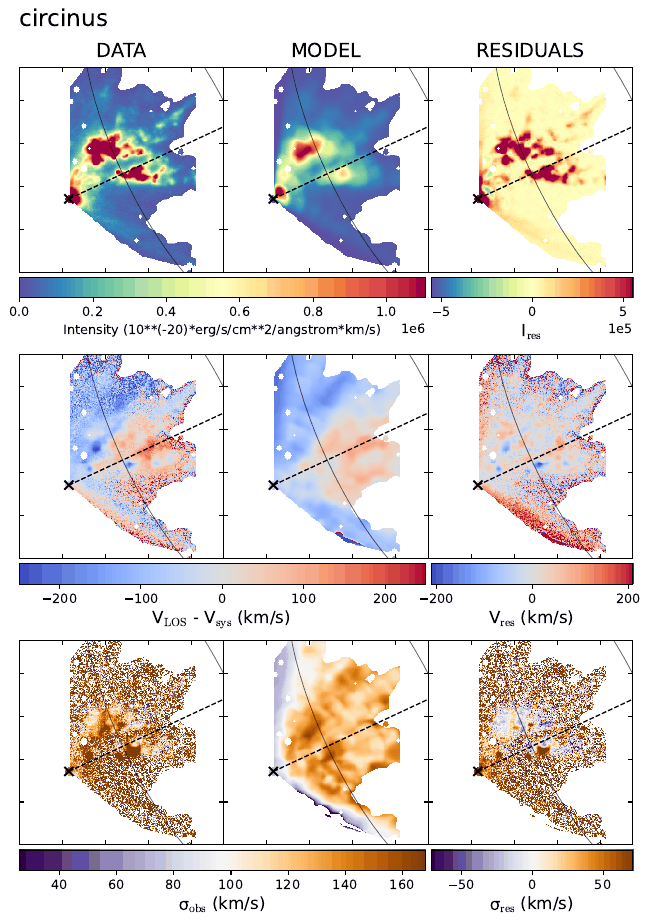
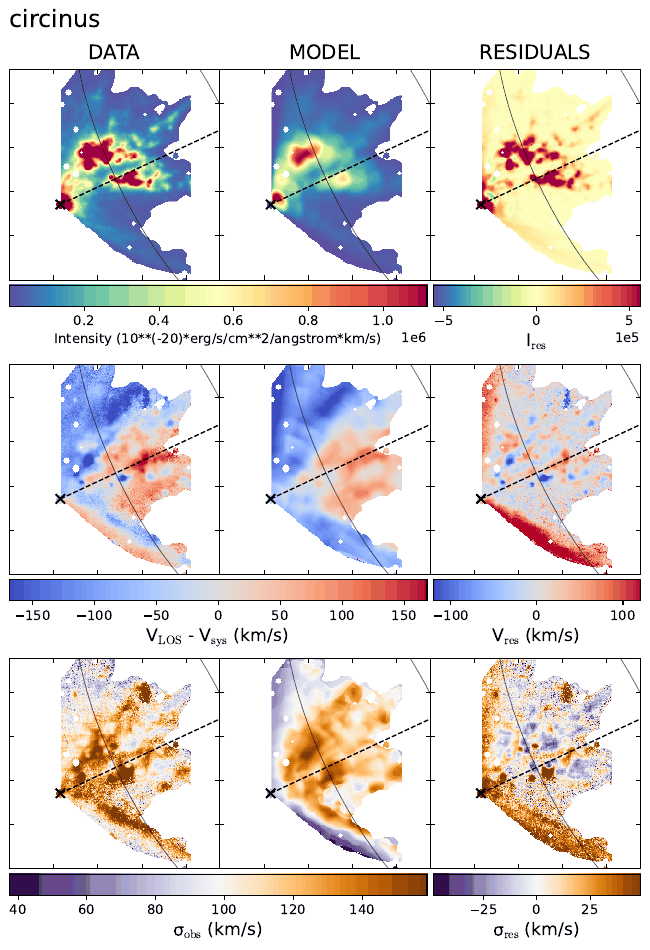
WINDFIT maps: the detections of a mask of a region, the model in the same voxels
With MASK FILE(...) or NONE (a region: every channel of a window, with its empty voxels) the moment maps of the
data use only the voxels of the mask detected as MASK SMOOTH (the cube smoothed to FACTOR times the beam, above
BLANKCUT times its noise), and the maps of the model the same voxels (they used all its voxels). The empty channels
made the velocity and dispersion maps of the data noisy (Circinus: dispersion 155 km/s, 16-84% 104-240; now 111,
91-139, 99% of the flux). The likelihood still uses the whole mask; SEARCH (the default) and SMOOTH masks are
unchanged. Cube.smoothDetections() is the SMOOTH branch of BlankMask, without setting the mask (the SMOOTH masks
of four cubes are identical to the previous code); kinematic_maps(model_mask=True) for the model. Test
test_bayesian_wind_map_voxels; Circinus maps redone.

diff --git a/tests/test_wind.py b/tests/test_wind.py
@@ -703,6 +703,44 @@ def test_bayesian_wind_blanks(tmp_path):
     assert abs(f.noiserms / full.noiserms - 1) < 0.05
 
 
+def test_bayesian_wind_map_voxels(tmp_path):
+    """The moment maps of WINDFIT (maps/): with MASK FILE (a region, every channel) the maps of the data use the
+    voxels of the mask detected as MASK SMOOTH (the cube smoothed, above BLANKCUT times its noise), not all the voxels
+    of the mask (the empty channels made the velocity and dispersion maps noisy), and the maps of the model use the
+    same voxels; MASK SMOOTH (made of detections) keeps its mask."""
+    from wind_mocks import mock_wind
+    from bbarolo import BayesianWind
+    from bbarolo.cube import Cube
+    from bbarolo.moments import getAllMoments
+    from bbarolo.bayesian.wind_outputs import _map_mask
+    from astropy.io import fits
+    hdu, tr = mock_wind(kind="clumps", seed=2, snr=15, shape=(24, 24, 20), pix=12., chan=25., beam=36.,
+                        truth=dict(xpos=11.5, ypos=11.5, conelen=110., radii=[55., 110.], vwind=200.), nclumps=40,
+                        clump=20.)
+    mask = np.ones(hdu.data.shape, np.uint8)
+    mask[:, :, :7] = 0                                                # (a region: every channel of two thirds)
+    mfile = str(tmp_path / "mask.fits")
+    fits.PrimaryHDU(mask, hdu.header).writeto(mfile)
+    f = BayesianWind(hdu, xpos=11.5, ypos=11.5, vsys=0, inc=55, pa=30, openang=55, conelen=110, vwind=180, vdisp=20,
+                     nlayers=2, mask=f"FILE({mfile})", outfolder=str(tmp_path) + "/")
+    f.optimize(freepar=["openang"], like_kwargs=dict(emission="voxel", sigma=1., noisecorr=10.), verbose=False)
+    f.write(plots=-1, verbose=False)
+    c = f._cube_obj
+    det = np.asarray(c.smoothDetections()[0], bool)
+    mm = _map_mask(c, np.asarray(c.Mask(), bool))
+    assert np.array_equal(mm, (mask > 0) & det) and 0 < mm.sum() < 0.5 * mask.sum()
+    pre = str(tmp_path) + "/maps/" + c.pars().outPrefix
+    mod = Cube(array=np.asarray(f.model, np.float32), head=c.Head(), par=c.pars())
+    for cube, files in ((c, ["_0mom", "_1mom", "_2mom"]), (mod, ["_mod_0mom_wind", "_mod_1mom_wind", "_mod_2mom_wind"])):
+        ref = getAllMoments(cube, True, mm, "MOMENT")
+        for i, fn in enumerate(files):
+            got = fits.getdata(pre + fn + ".fits")
+            assert np.allclose(got, ref[i].array, equal_nan=True, rtol=1e-5, atol=1e-6 * np.nanmax(np.abs(got))), fn
+    # a mask made of detections is kept as it is
+    c.pars().MaskType = "SMOOTH"
+    assert _map_mask(c, mask > 0) is not None and np.array_equal(_map_mask(c, mask > 0), mask > 0)
+
+
 def test_bayesian_wind_likemask(tmp_path):
     """LIKEOPTS likemask=dilated (as 3DFIT with METHOD GLOBAL or BAYESIAN): the likelihood uses only the voxels of the
     mask (MASK), dilated by dilation (beams, channels). With MASK FILE(...) and dilation=0,0 the voxels and the

diff --git a/bbarolo/bayesian/wind_outputs.py b/bbarolo/bayesian/wind_outputs.py
@@ -10,7 +10,8 @@ the cube (<prefix>):
                                  volume and emissivity at the best fit
   <prefix>_mod_wind.fits         the best model cube (as <prefix>_mod_<norm>.fits of 3DFIT), and <prefix>_mask.fits
   maps/<prefix>_{0,1,2}mom.fits, maps/<prefix>_mod_{0,1,2}mom_wind.fits   the total intensity, velocity and
-                                 dispersion maps of the data (in the mask) and of the model, as 3DFIT
+                                 dispersion maps of the data and of the model, in the same voxels: the mask (and,
+                                 with MASK FILE or NONE, the detections of MASK SMOOTH in it; see _map_mask)
   pvs/<prefix>_pv_{a,b}.fits, pvs/<prefix>_mod_pv_{a,b}_wind.fits, pvs/<prefix>_mask_pv_{a,b}.fits   position-velocity
                                  slices of the data, the model and the mask through the apex, across the axis of the
                                  cones (a: along PA) and along it (b: PA + 90), as 3DFIT
@@ -131,7 +132,7 @@ def write_outputs(f, outfolder=None, plots=None, verbose=True):
     files.append(fn)
     os.makedirs(of + "maps", exist_ok=True)
     os.makedirs(of + "pvs", exist_ok=True)
-    for name, hdu in kinematic_maps(c, mod, mask, "_wind").items():
+    for name, hdu in kinematic_maps(c, mod, _map_mask(c, mask), "_wind", model_mask=True).items():
         fn = of + "maps/" + prefix + "_" + name + ".fits"
         write_hdu(hdu, fn)
         files.append(fn)
@@ -162,6 +163,24 @@ def _output_mask(c):
         with _outputs_mode(c.pars()):
             c.BlankMask()
     return np.asarray(c.Mask(), bool)
+
+
+def _map_mask(c, mask):
+    """The voxels of the moment maps of the data and of the model: the mask (MASK) and, when MASK is not made of
+    detections (FILE, NONE: e.g. a region of the wind, every channel of a window), the detections of MASK SMOOTH
+    (the cube smoothed to FACTOR times the beam, above BLANKCUT times its noise); the empty voxels of such a mask
+    made the velocity and dispersion maps of the data noisy. The mask itself if there are no detections in it."""
+    mt = c.pars().MaskType.upper()
+    if any(k in mt for k in ("SMOOTH", "SEARCH", "THRESHOLD", "NEGATIVE")):
+        return mask
+    v = c.pars().verbose
+    c.pars().verbose = False
+    try:
+        det = np.asarray(c.smoothDetections()[0], bool)
+    finally:
+        c.pars().verbose = v
+    both = mask & det
+    return both if both.any() else mask
 
 
 def _cube_file(f, c, of):

diff --git a/bbarolo/cube.py b/bbarolo/cube.py
@@ -586,6 +586,25 @@ class Cube:
             return factor, nb[0], nb[1], (bpa if nb[2] is None else nb[2])
         return factor, factor * bmaj, factor * bmin, bpa
 
+    def smoothDetections(self):
+        """The detections of MASK SMOOTH, without setting the mask: the voxels of the cube smoothed to FACTOR times
+        the beam (or NEWBEAM) above BLANKCUT times its noise. Returns (mask, factor, new bmaj, bmin (arcsec), bpa)."""
+        from .smooth import Smooth3D
+        p = self.par
+        h = self.head
+        bmaj = h.Bmaj() * arcsconv(h.Cunit(0))
+        bmin = h.Bmin() * arcsconv(h.Cunit(0))
+        bpa = h.Bpa()
+        factor, nbmaj, nbmin, nbpa = self._maskBeam(bmaj, bmin, bpa)
+        arr = Smooth3D().smooth(self, (bmaj, bmin, bpa), (nbmaj, nbmin, nbpa))
+        st = Stats(p.flagRobustStats)
+        good = ~((arr == 0) | np.isnan(arr))
+        st.calculate(arr, good)
+        st.setThresholdSNR(p.blankCut)
+        with np.errstate(invalid="ignore"):
+            mask = arr > st.getThreshold()
+        return mask, factor, nbmaj, nbmin, nbpa
+
     def BlankMask(self, channel_noise=None, onlyLargest=True):
         """Build the mask (self.mask) according to the MASK parameter."""
         from .smooth import Smooth3D, SpectralSmooth3D
@@ -636,18 +655,7 @@ class Cube:
                     mask[o.z, o.y, o.x] = True
                 self._maskSources = self.sources
             elif "SMOOTH" in MASK:
-                bmaj = h.Bmaj() * arcsconv(h.Cunit(0))
-                bmin = h.Bmin() * arcsconv(h.Cunit(0))
-                bpa = h.Bpa()
-                factor, nbmaj, nbmin, nbpa = self._maskBeam(bmaj, bmin, bpa)
-                sm = Smooth3D()
-                arr = sm.smooth(self, (bmaj, bmin, bpa), (nbmaj, nbmin, nbpa))
-                st = Stats(p.flagRobustStats)
-                good = ~((arr == 0) | np.isnan(arr))
-                st.calculate(arr, good)
-                st.setThresholdSNR(p.blankCut)
-                with np.errstate(invalid="ignore"):
-                    mask = arr > st.getThreshold()
+                mask, factor, nbmaj, nbmin, nbpa = self.smoothDetections()
             elif "THRESHOLD" in MASK:
                 mask = self.array > p.se.threshold
             elif "NEGATIVE" in MASK:

diff --git a/bbarolo/galfit_out.py b/bbarolo/galfit_out.py
@@ -23,10 +23,11 @@ from .bbutils import mkdirp, randomAdjective, polyfit_lsq
 FLT_MAX = float(np.finfo(np.float32).max)
 
 
-def kinematic_maps(c, mod, mask=None, suffix=""):
+def kinematic_maps(c, mod, mask=None, suffix="", model_mask=False):
     """The maps of the data (within the mask: mask, or that of the cube) and of the model mod, as HDUs:
     {'0mom', '1mom', '2mom', 'mod_0mom<suffix>', ...} (the files of the maps/ folder without the prefix).
-    Moments or Gaussian fits, as MAPTYPE (C++ always used moments)."""
+    Moments or Gaussian fits, as MAPTYPE (C++ always used moments). The maps of the model use all its voxels, or
+    with model_mask those of the data (mask, which must then be given)."""
     p = c.pars()
     mtype = "GAUSSIAN" if p.ma.maptype == "GAUSSIAN" else "MOMENT"
     v = p.verbose
@@ -35,7 +36,7 @@ def kinematic_maps(c, mod, mask=None, suffix=""):
         allmaps = getAllMoments(c, True, mask, mtype)
         out = {s: allmaps[i].to_hdu() for i, s in enumerate(("0mom", "1mom", "2mom"))}
         mod.pars().verbose = False
-        modmaps = getAllMoments(mod, False, None, mtype)
+        modmaps = getAllMoments(mod, True, mask, mtype) if model_mask else getAllMoments(mod, False, None, mtype)
         out.update({s + suffix: modmaps[i].to_hdu() for i, s in enumerate(("mod_0mom", "mod_1mom", "mod_2mom"))})
     finally:
         p.verbose = v

diff --git a/docs/tasks/windfit/index.md b/docs/tasks/windfit/index.md
@@ -134,8 +134,11 @@ In the output folder, with the prefix of the cube:
 - `_mod_wind.fits`: the best model (as the `_mod_<norm>.fits` of 3DFIT; with `emission` `voxel`, the data in the
   voxels the cone reaches, those where a uniform cone with its geometry and wind is above 1/1000 of its peak), and
   `_mask.fits`;
-- `maps/`: the total intensity, velocity and dispersion maps of the data, in the mask, and of the model
-  (`_0mom.fits`, ..., `_mod_0mom_wind.fits`, ...), as 3DFIT;
+- `maps/`: the total intensity, velocity and dispersion maps of the data and of the model, in the same voxels
+  (`_0mom.fits`, ..., `_mod_0mom_wind.fits`, ...): those of the mask; with `MASK FILE(...)` or `NONE` (a region,
+  e.g. every channel of a window, with its empty voxels) only those detected as `MASK SMOOTH` (the cube smoothed to
+  `FACTOR` times the beam, above `BLANKCUT` times its noise), which keeps the velocity and dispersion maps free of
+  the empty channels;
 - `pvs/`: position-velocity slices of the data, the model and the mask through the apex, across the axis of
   the cones (`_pv_a`, along `PA`) and along it (`_pv_b`, `PA` + 90), as 3DFIT;
 - `_<sampler>_windresults.npy`: the samples, their weights and the setup of the fit (METHOD GLOBAL:

diff --git a/CHANGES.md b/CHANGES.md
@@ -842,6 +842,15 @@ Bugs marked **(C++)** are also in the C++ BBarolo 1.8; the others were introduce
 
 ### Changed
 
+- **The moment maps of WINDFIT (`maps/`, `_maps_wind.pdf`) use the detections of a mask of a region**: with `MASK
+  FILE(...)` or `NONE` the maps of the data use only the voxels of the mask detected as `MASK SMOOTH` (the cube
+  smoothed to `FACTOR` times the beam, above `BLANKCUT` times its noise), and those of the model the same voxels
+  (they used all its voxels). A mask of the region of a wind (every channel of a window, as in the Circinus example)
+  made the velocity and dispersion maps of the data noisy: the empty channels weighed as much as the line (Circinus:
+  dispersion 155 km/s, 16-84% 104-240, now 111, 91-139, with 99% of the flux). The likelihood still uses the whole
+  mask, and the masks made of detections (SEARCH, the default, SMOOTH) are unchanged. `Cube.smoothDetections()`
+  gives the detections of MASK SMOOTH without setting the mask.
+
 - **BBarolo is on PyPI** (`pip install bbarolo`), released from GitHub by `.github/workflows/release.yml` (see
   `RELEASING.md`). It needs Python 3.10 or later: it declared 3.9, but its requirement scipy 1.15 needs 3.10, so
   `pip install` failed on 3.9.

diff --git a/docs/examples/circinus.md b/docs/examples/circinus.md
@@ -159,9 +159,9 @@ velocities of the data are not in the model at any radius: see {ref}`circinus-hi
 :width: 70%
 :alt: Moment maps of the data, the model and the residuals of the cone of Circinus
 
-The moment maps (`_maps_wind.pdf`) of the data in the mask, of the model and their difference. The model is
-smoother than the filaments of the data. The dispersion of the data is noisy: the mask holds every channel of the
-window, the empty ones too.
+The moment maps (`_maps_wind.pdf`) of the data, of the model and their difference, in the voxels of the mask
+detected in the cube smoothed to twice the beam (above 3σ): the empty channels of the mask stay out of the maps,
+which keep 99% of its flux. The model is smoother than the filaments of the data.
 ```
 
 ```{figure} /figures/examples/circinus_pv.png
